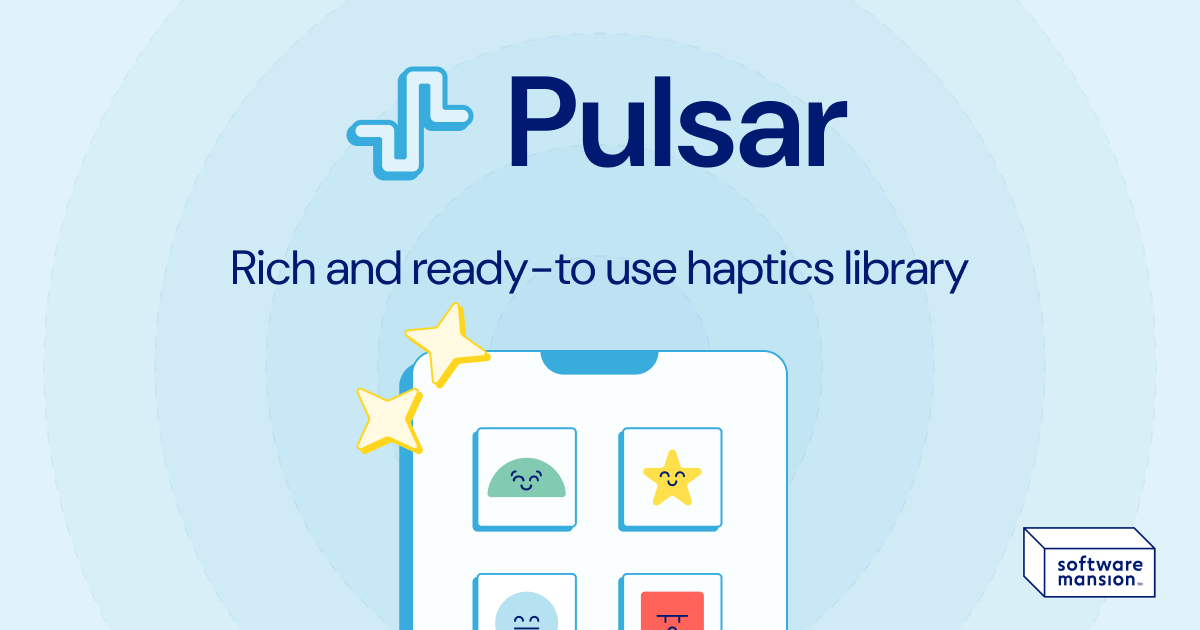
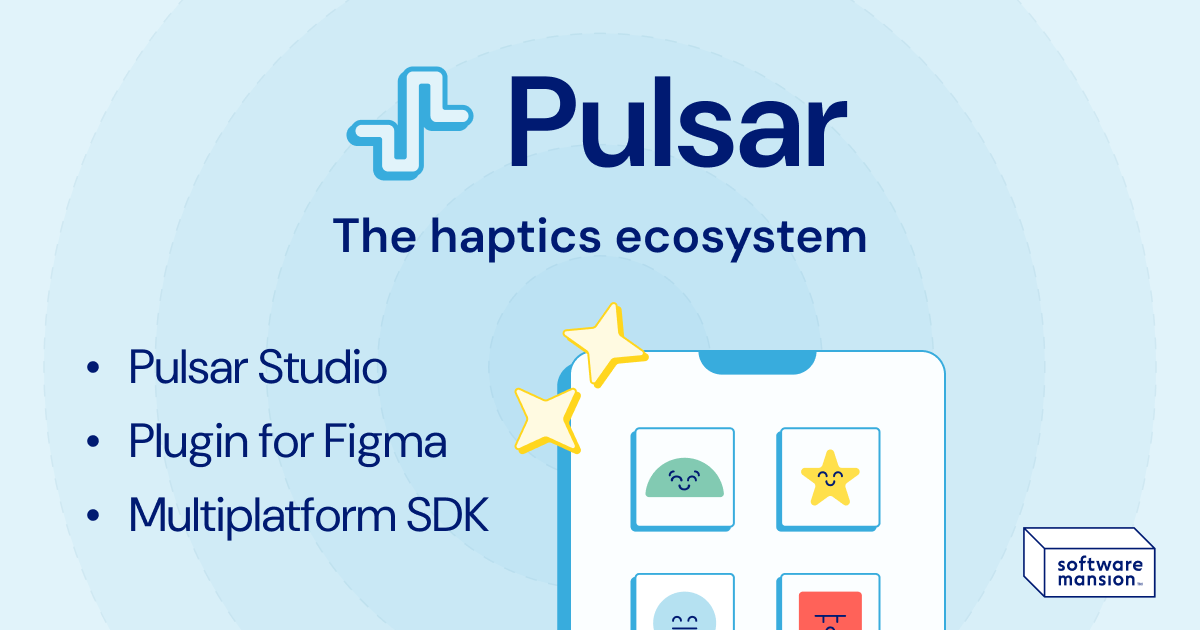
docs: update the social cover image to the ecosystem artwork
Pulsar is no longer just a haptics library, so the card that shows up
when a docs page or a README is shared now says "The haptics ecosystem"
and lists Pulsar Studio, the plugin for Figma and the multiplatform SDK.

The artwork keeps the 1200x630 OG size, so every og:image / twitter:image
tag pointing at /pulsar/og.png is unchanged. docs/src/assets/og.png (the
copy the READMEs link to on raw.githubusercontent) is synced to the same
file, and the README alt text now matches what the image says.

Changed region(s): [[0.0617, 0.4825, 0.6167, 1.0], [0.5858, 0.5429, 0.8017, 1.0], [0.185, 0.3317, 0.8017, 0.4524]]

diff --git a/README.md b/README.md
@@ -1,5 +1,5 @@
 <p align="center">
-  <img src="https://github.com/software-mansion/pulsar/raw/main/docs/src/assets/og.png" alt="Pulsar - Rich and ready-to use haptics library" />
+  <img src="https://github.com/software-mansion/pulsar/raw/main/docs/src/assets/og.png" alt="Pulsar - The haptics ecosystem" />
 </p>
 
 A haptic feedback SDK for iOS, Android, React Native, Kotlin Multiplatform, Flutter, and the Web. Pulsar provides ready-to-use haptic presets, a pattern composer for custom haptic sequences, and a real-time composer for gesture-driven feedback.

diff --git a/react-native/react-native-pulsar/README.md b/react-native/react-native-pulsar/README.md
@@ -1,5 +1,5 @@
 <p align="center">
-  <img src="https://github.com/software-mansion/pulsar/raw/main/docs/src/assets/og.png" alt="Pulsar - Rich and ready-to use haptics library" />
+  <img src="https://github.com/software-mansion/pulsar/raw/main/docs/src/assets/og.png" alt="Pulsar - The haptics ecosystem" />
 </p>
 
 A haptic feedback SDK for React Native. Pulsar provides ready-to-use haptic presets, a pattern composer for custom haptic sequences, and a real-time composer for gesture-driven feedback.

diff --git a/web/Pulsar/README.md b/web/Pulsar/README.md
@@ -1,5 +1,5 @@
 <p align="center">
-  <img src="https://github.com/software-mansion/pulsar/raw/main/docs/src/assets/og.png" alt="Pulsar - Rich and ready-to use haptics library" />
+  <img src="https://github.com/software-mansion/pulsar/raw/main/docs/src/assets/og.png" alt="Pulsar - The haptics ecosystem" />
 </p>
 
 # pulsar-haptics
